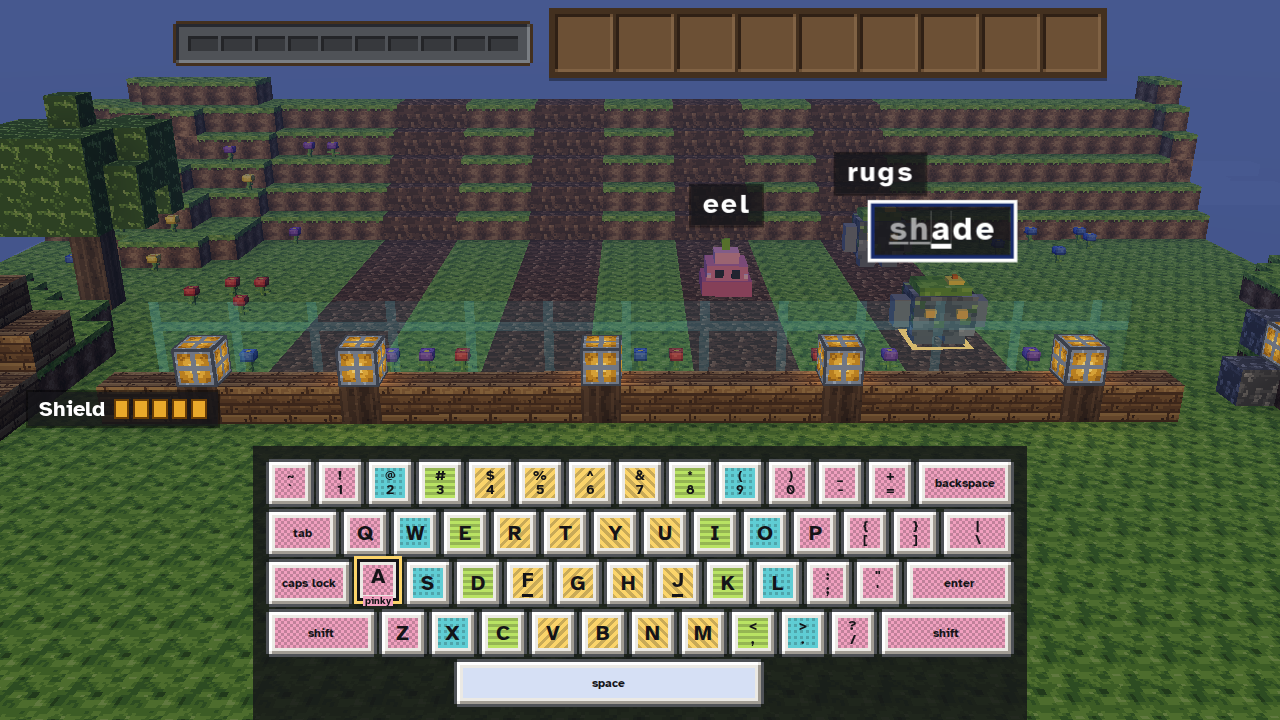
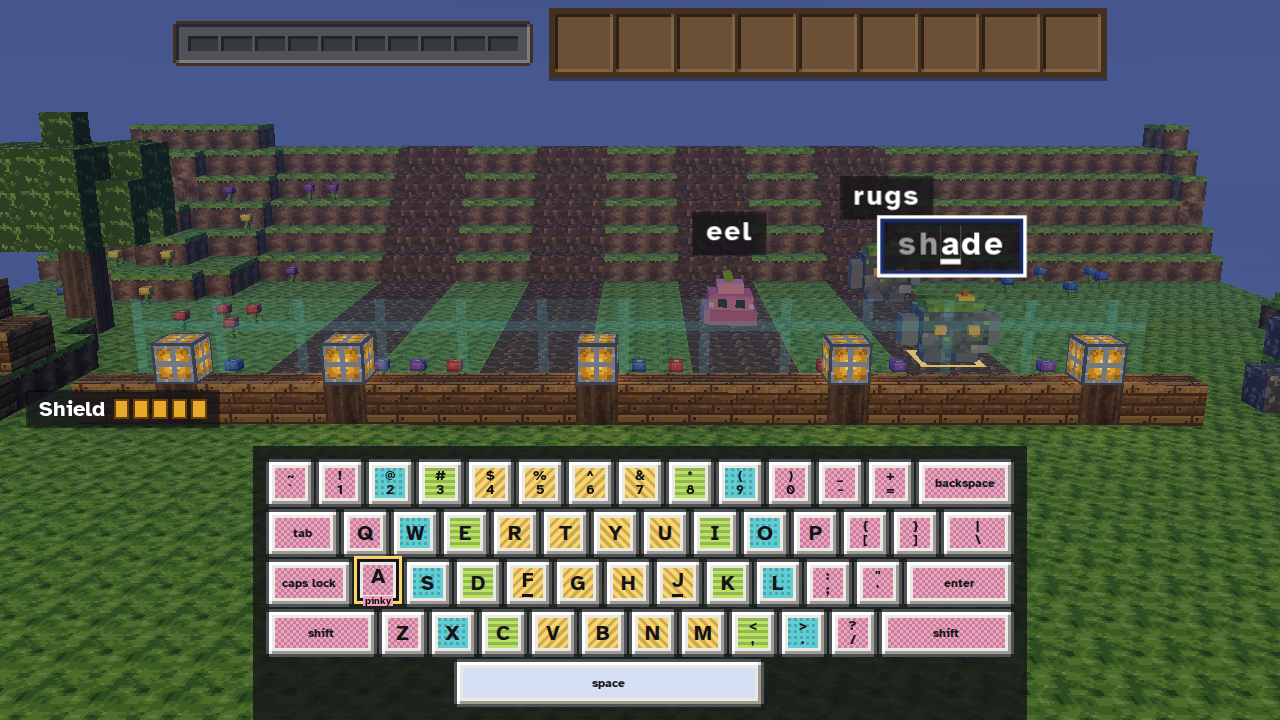
docs(M4-04): handoff for the pre-merge pass, refreshed CI screenshots

Changed region(s): [[0.0, 0.0917, 1.0, 1.0]]

diff --git a/docs/handoffs/M4-04.md b/docs/handoffs/M4-04.md
@@ -167,7 +167,7 @@ waves under 85 % (15–23 % today).
 
 ### Screenshots for the review
 
-From CI's Linux runner (run 43245776745, SwiftShader, 1280×720, the real HUD), attached by the e2e
+From CI's Linux runner (run 43256537993, the final head's code, SwiftShader, 1280×720, the real HUD), attached by the e2e
 and copied to `docs/handoffs/M4-04/`. A night runs on real time, so these are review pictures, not
 baselines.
 
@@ -177,7 +177,7 @@ baselines.
 | `docs/handoffs/M4-04/miner-mid-wave-lock.png` | **Mid-wave with a lock**: three visitors out, one locked, two typed |
 | `docs/handoffs/M4-04/miner-dawn.png`          | **Dawn**: the banner, the loot in the hotbar, the shield whole      |
 | `docs/handoffs/M4-04/miner-results.png`       | Results with the night's two lines                                  |
-| `docs/handoffs/M4-04/sprout-calm-lock.png`    | A Sprout's calm night with a lock                                   |
+| `docs/handoffs/M4-04/sprout-calm-lock.png`    | A Sprout's calm night with a lock: no hands, no shield bar          |
 | `docs/handoffs/M4-04/builder-lock.png`        | A Builder's five lanes, no keyboard                                 |
 
 **My own look at them (the three CI rounds it took are in the PR's history):**
@@ -189,25 +189,26 @@ baselines.
   glow onto the field at night.
 - **Miner and Builder read well now.** The mob, its ring and its plate are clear; the locked plate
   stands out; the shield is a faint lattice that doesn't hide anything.
-- **The Sprout layout is still tight, and it is the one I would look at first.** Keyboard and
-  hands leave about 250 px of stage, and a visitor at the far end of its lane is about 30 px tall,
-  half hidden under its own plate. It works, but it is small for a 6-year-old. See Questions 5.
+- **The Sprout layout was the weak one, and the pre-merge pass fixed it.** With the hands shown
+  the stage was about 250 px, a far visitor about 30 px tall and half under its own plate. With
+  the hands hidden the keyboard starts about 115 px lower, the visitor is about 55 px tall, and
+  its plate sits above it. The keys are the same size as before.
 - The Moss Golem is the darkest visitor at night (a mossy-cobble tile). The glow helps; a lighter
   tile would help more, and that is M4-03's model.
 
 ## Review pass (review 5877423877, orchestrator's pre-merge list)
 
-| Item                                         | Done                                                                                                                             |
-| -------------------------------------------- | -------------------------------------------------------------------------------------------------------------------------------- |
-| Sprout nights: hide the hands, keep the keys | The `hands` HUD slice; the keyboard row is the keys and the hint line. The fit also keeps a plate's height clear above a far mob |
-| Hide the shield bar in calm mode             | Done. The faint shield lattice at the fence stays                                                                                |
-| "1 lantern fish are on the way!"             | Plural form like the others; a test checks 1 and many for every mob                                                              |
-| Results: say why a star was held back        | "Send more friends home for another star!", only when the gate cost a star                                                       |
-| N1 dead `priorityOf`                         | Removed, with its comment and test                                                                                               |
-| N2 crash memory                              | Removed                                                                                                                          |
-| N5 slow typists' `low` share                 | Pinned at 25 % for 10 WPM                                                                                                        |
-| N7 two underlines on a plate                 | Typed letters are only dimmed; the next letter's bar is the only underline                                                       |
-| N8 stale draw-call comment in `view.ts`      | 87 calls, 95 on High, against 172                                                                                                |
+| Item                                         | Done                                                                                                                              |
+| -------------------------------------------- | --------------------------------------------------------------------------------------------------------------------------------- |
+| Sprout nights: hide the hands, keep the keys | The `hands` HUD slice. Keys keep their size, so the field gets about 115 px. The fit keeps a plate's height clear above a far mob |
+| Hide the shield bar in calm mode             | Done. The faint shield lattice at the fence stays                                                                                 |
+| "1 lantern fish are on the way!"             | Plural form like the others; a test checks 1 and many for every mob                                                               |
+| Results: say why a star was held back        | "Send more friends home for another star!", only when the gate cost a star                                                        |
+| N1 dead `priorityOf`                         | Removed, with its comment and test                                                                                                |
+| N2 crash memory                              | Removed                                                                                                                           |
+| N5 slow typists' `low` share                 | Pinned at 25 % for 10 WPM                                                                                                         |
+| N7 two underlines on a plate                 | Typed letters are only dimmed; the next letter's bar is the only underline                                                        |
+| N8 stale draw-call comment in `view.ts`      | 87 calls, 95 on High, against 172                                                                                                 |
 
 **Why the locked visitor hid behind its plate.** A plate is clamped into the stage. A visitor at
 the far end stood right under the top of the stage, so its plate had nowhere to go but down over
@@ -220,11 +221,11 @@ pixels, because a plate doesn't shrink with distance.
   would show the locked word twice and move the stage each time it came and went. The locked plate
   is 1.2× bigger and framed instead, and each plate has a spoken name ("Type: frost").
 - **The field is framed in the space the HUD leaves** (`fitLaneView`, tested for all three bands).
-  A Sprout's keyboard and hands take the lower half of 1280×720, so the open stage is about
-  250 px tall, less the banner's room. A flat stage gets a low camera (12°), which folds the lanes
+  A Sprout's keyboard and hint line take the lower third of 1280×720 during a night (the drawn
+  hands are hidden), so the open stage is about 365 px tall, less the banner's room. A flat stage gets a low camera (12°), which folds the lanes
   toward the horizon and keeps the mobs big; a tall one gets 36°. Lanes are 13 blocks long and
   mobs are drawn at 2.2×, so in every band's layout a mob is at least 44 px tall at the camp and
-  30 px at the far end (pinned by a test). The picture is slid with a camera view offset, the way
+  30 px at the far end (pinned by a test), with 56 px kept above the far end for a locked plate. The picture is slid with a camera view offset, the way
   Mine does it.
 - **The camp glows at night.** A warm directional light from the camera's side, off by day and
   full at night, lights the visitors' faces. The night's own light comes from behind them, and
